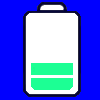
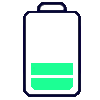
modification des image et de bar

diff --git a/main.py b/main.py
@@ -7,7 +7,7 @@ port ="/dev/ttyUSB0"
 screen = Tk()
 screen.title("BMW M1 #1 telemetrie")
 screen.minsize(1100,500)
-screen.bg = "white"
+screen.config(bg = "white")
 screen.iconphoto(False,PhotoImage(file='image/bmw.png'))
 #Connextion serie
 ConnectSerial = Toplevel()
@@ -43,29 +43,27 @@ IMG0 = PhotoImage(file="image/0.png")
 IMGcentral = PhotoImage(file="image/image.png")
 labelImage = Label(image=IMGcentral)
 #creation des deux cadre
-CadreLeft= Frame(screen,width=300,height=800)
-Cadreright= Frame(screen,width=300,height=800)
+CadreLeft= Frame(screen,width=300,height=800,bg = "white")
+Cadreright= Frame(screen,width=300,height=800,bg = "white")
 
 #mise en forme des cadre:
-LabelTitre2 = Label(CadreLeft, text="Temperature",width=10,font=("arial",30))
-LabelTitre1 = Label(Cadreright,text="Batterie   ",width=10,font=("arial",30))
-LabelTemp = Label(CadreLeft)
-LabelBat = Label(Cadreright)
-LabelEcartG1 = Label(CadreLeft,height="17",width="10")
+LabelTitre2 = Label(CadreLeft, text="Temperature",width=10,font=("arial",30),bg = "white")
+LabelTitre1 = Label(Cadreright,text="Batterie   ",width=10,font=("arial",30),bg = "white")
+LabelEcartG1 = Label(CadreLeft,height="17",width="10",bg = "white")
 LabelAffichageG = Label(CadreLeft,width="10",height="2")
-LabelEcartG2 = Label(CadreLeft,height="8",width="10")
-LabelImageG = Label(CadreLeft,image=IMGNORMAL1)
-LabelEcartG3 = Label(CadreLeft,height="4",width="10")
+LabelEcartG2 = Label(CadreLeft,height="8",width="10",bg = "white")
+LabelImageG = Label(CadreLeft,image=IMGNORMAL1,bg = "white")
+LabelEcartG3 = Label(CadreLeft,height="4",width="10",bg = "white")
 
-LabelEcartD1 = Label(Cadreright,height="6",width="10")
-LabelTextD1 = Label(Cadreright,text="Tension de la batterie",fg="white")
+LabelEcartD1 = Label(Cadreright,height="6",width="10",bg = "white")
+LabelTextD1 = Label(Cadreright,text="Tension de la batterie",bg = "white")
 LabelAffichageD1 = Label(Cadreright,width="10",height="2")
-LabelEcartD2 = Label(Cadreright,height="8",width="10")
-LabelTextD2 = Label(Cadreright,text="Pourcentage",fg="white")
+LabelEcartD2 = Label(Cadreright,height="8",width="10",bg = "white")
+LabelTextD2 = Label(Cadreright,text="Pourcentage",bg = "white")
 LabelAffichageD2 = Label(Cadreright,width="10",height="2")
-LabelEcartD3 = Label(Cadreright,height="8",width="10")
-LabelImageD = Label(Cadreright,image=IMG100)
-LabelEcartD4 = Label(Cadreright,height="4",width="10")
+LabelEcartD3 = Label(Cadreright,height="8",width="10",bg = "white")
+LabelImageD = Label(Cadreright,image=IMG100,bg = "white")
+LabelEcartD4 = Label(Cadreright,height="4",width="10",bg = "white")
 #Bouton
 def CommandStart():
     Telementrie.open()
